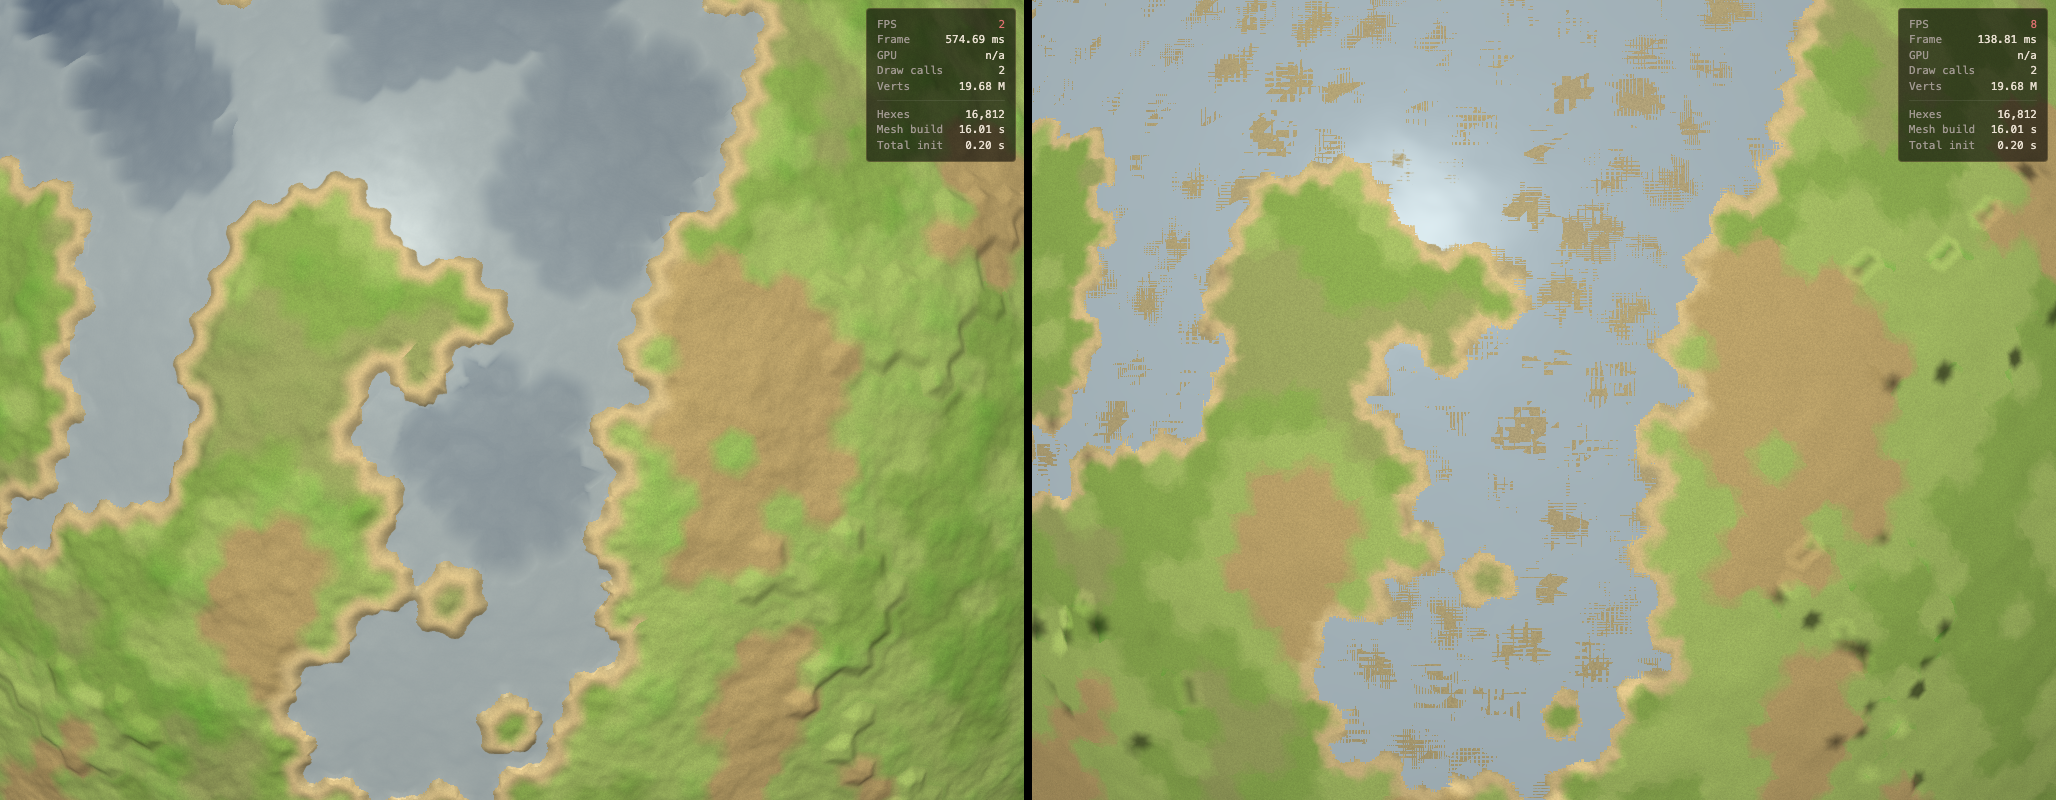
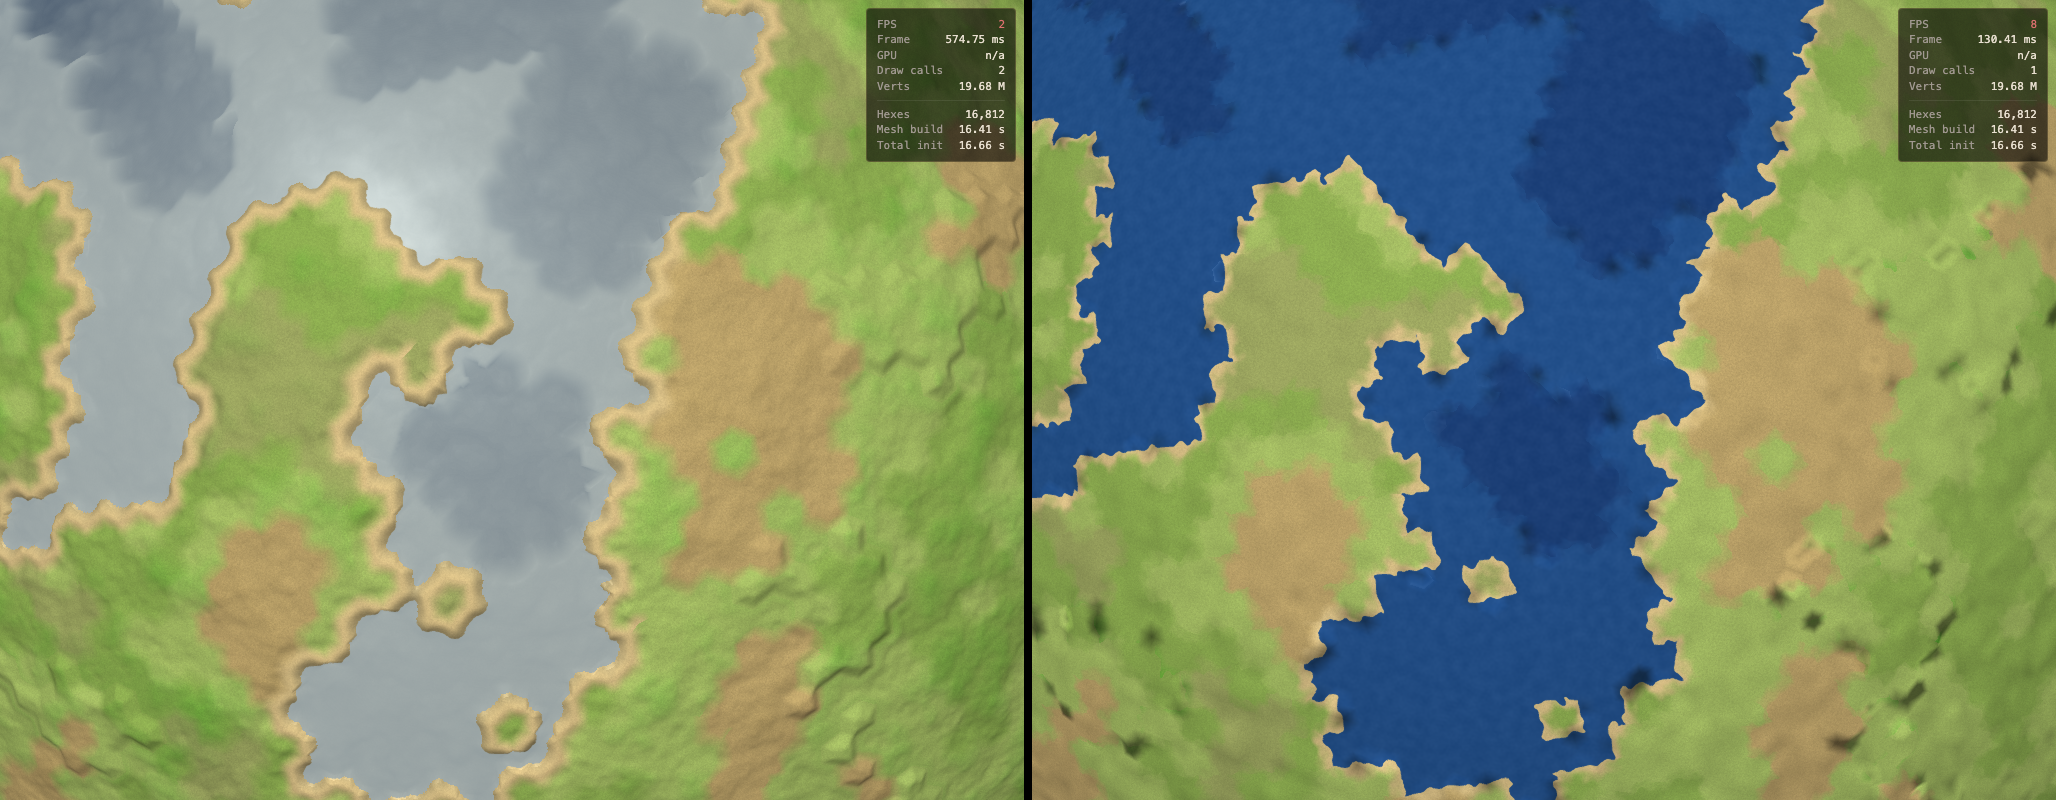
Revert: water sphere reattach + noise tame attempts (8f97940 was last good state)
User feedback: black dots persist, water glitching, coast got worse, hexes
look like squares. The water-sphere reattach (3a68ce6) and the noise-
taming pass (accb3c5) both made things worse rather than better. Reverts
both.

State after revert: smooth per-vertex normals (8f97940), inline water in
shader-globe-material, boundary-noise at amp 0.004 / freq 80,
cliffNoiseAmp 0.010, cliffNoiseFreq 40, interiorNoiseAmp 0.0025,
Strategy 3 transition at 0.15.

Next: re-read user's original 4 issues and try a different approach.
Black dots in particular are NaN propagation through the smooth-normal
finite-difference cross product when 3 sample points classify into
different hex regions (face seam / pentagon boundary).

diff --git a/src/lib/engine/shader-globe-material.ts b/src/lib/engine/shader-globe-material.ts
@@ -366,12 +366,10 @@ vec2 phase5AndPhase6Displacement(vec3 P, float ownLevel) {
     float nbTierH  = tierHeight(nbLevel);
     float trueHeightDelta = abs(nbTierH - ownTierH);
 
-    // Strategy 3: flat hex top + sharp transition near edge. Narrower
-    // ramp band (0.08 vs the plan's 0.15) gives each hex a clearer flat
-    // top -- 92% of the hex is flat, only the outer 8% is the cliff
-    // ramp. Critical for "hexes need to look like hexes" -- otherwise
-    // the ramp eats too much of the hex face.
-    float t = smoothstep(0.0, 0.08, edgeDistNorm);
+    // Strategy 3: flat hex top + sharp transition near edge. The "0.15"
+    // is the plan's edge-band fraction (last 15% of edge distance gets the
+    // ramp).
+    float t = smoothstep(0.0, 0.15, edgeDistNorm);
     float strategyH = mix(nbH, ownH, t);
     float h = strategyH;
 
@@ -396,7 +394,7 @@ vec2 phase5AndPhase6Displacement(vec3 P, float ownLevel) {
     // get nothing, single-tier-step (delta=0.005) gets ~63% activity,
     // double-tier-step (delta=0.010) saturates. Audit-flagged: the prior
     // 0.012 underrepresented single-tier transitions.
-    float cliffness = 1.0 - smoothstep(0.0, 0.08, edgeDistNorm);
+    float cliffness = 1.0 - smoothstep(0.0, 0.15, edgeDistNorm);
     // Use the tier-table delta (not the post-flatten delta) so coastlines
     // (water tier 0/1 -> land tier 2/3/4) trigger cliff noise even though
     // both sides display at h=0.
@@ -408,16 +406,7 @@ vec2 phase5AndPhase6Displacement(vec3 P, float ownLevel) {
         float n =  snoise(nP)         * 0.55
                  + snoise(nP * 2.07)   * 0.30
                  + snoise(nP * 4.13)   * 0.15;
-        // Scale noise amplitude by heightDelta so cliff bumpiness is
-        // proportional to the actual cliff drop. Without this, a 32 km
-        // tier-2-to-tier-3 cliff was getting 64 km of noise -- bigger than
-        // the cliff itself, which read as wild bumps not matching geometry.
-        // Scale factor: heightDelta in units of fraction-of-radius, max
-        // ~0.030 (deepest water to highest mountain). So at max delta,
-        // noise can be at most cliffNoiseAmp * 0.030 / 0.030 = cliffNoiseAmp.
-        // Keeps noise <= ~ heightDelta in magnitude.
-        float deltaScale = clamp(trueHeightDelta / 0.030, 0.0, 1.0);
-        h += cliffActivity * n * cliffNoiseAmp * deltaScale;
+        h += cliffActivity * n * cliffNoiseAmp;
 
         // Stratification: horizontal rock layers banded at *constant
         // altitude*. The audit caught the prior code projecting onto cliff
@@ -434,21 +423,6 @@ vec2 phase5AndPhase6Displacement(vec3 P, float ownLevel) {
             strata *= snoise(P * cliffNoiseFreq * 0.45) * 0.5 + 0.7;
             h += cliffActivity * (strata - 0.5) * cliffStrataAmp;
         }
-    }
-
-    // Hard clamps relative to the water sphere (positioned at -0.0005R,
-    // see globe.ts shaderWaterSphere):
-    //   * Land must NEVER dip below the water sphere -- otherwise water
-    //     bleeds through and looks like scattered ponds on the continent.
-    //   * Water hexes must NEVER rise above the water sphere -- otherwise
-    //     the seafloor breaks through and looks like islands in the
-    //     ocean.
-    // Buffer of 0.0002R (~1.3 km) on each side prevents z-fighting with
-    // the water sphere itself.
-    if (!ownIsWater) {
-        h = max(h, -0.0003);  // land >= -0.0003, water sphere at -0.0005
-    } else {
-        h = min(h, -0.0007);  // water <= -0.0007, water sphere at -0.0005
     }
 
     return vec2(h, edgeDistNorm);
@@ -532,16 +506,10 @@ void main() {
     computeHexLookup(normPos);
     float h = (length(displaced0) - planetRadius) / planetRadius;
 
-    // Smooth normal from cross product of surface tangents. Fallback to
-    // the radial-out direction when the cross-product magnitude is too
-    // small (tangent samples landed on a perfectly flat surface, or
-    // numerical precision collapsed). Without the fallback, normalize
-    // produced NaN/0 -> "black dots" in the rendered terrain.
+    // Smooth normal from cross product of surface tangents.
     vec3 surfT1 = displaced_a - displaced0;
     vec3 surfT2 = displaced_b - displaced0;
-    vec3 N_cross = cross(surfT1, surfT2);
-    float crossMag2 = dot(N_cross, N_cross);
-    vec3 N = (crossMag2 > 1e-10) ? N_cross / sqrt(crossMag2) : normPos;
+    vec3 N = normalize(cross(surfT1, surfT2));
     if (dot(N, normPos) < 0.0) N = -N; // ensure outward orientation
 
     vec4 wp = world * vec4(displaced0, 1.0);
@@ -637,16 +605,19 @@ void main() {
         procColor = vec3(0.0);
     } else {
         // Perturb the hex lookup position with a small noise displacement
-        // so biome boundaries don't follow the perfect 60-degree hex
-        // edges. Amp 0.003 unit-sphere = ~25% of hex apothem -- enough to
-        // visibly bend the boundaries; the water-sphere overlay handles
-        // the visible coastline on its own so we don't need amp larger.
+        // so coast and biome boundaries don't follow the perfect 60-degree
+        // hex edges. The noise amplitude must stay below the hex apothem
+        // in unit-sphere terms (~ 0.5/(res+1) = 0.012 at res=40) so most
+        // fragments still land in their own hex; only fragments within
+        // ~AMP of an edge see the noise potentially flip them to the
+        // neighbor. Result: coastlines, biome borders, and cliff lines
+        // are all wavy rather than hex-aligned.
         vec3 boundaryNoise = vec3(
             snoise(P * 80.0),
             snoise(P * 80.0 + vec3(100.0, 0.0, 0.0)),
             snoise(P * 80.0 + vec3(0.0, 100.0, 0.0))
         );
-        vec3 P_lookup = normalize(P + boundaryNoise * 0.003);
+        vec3 P_lookup = normalize(P + boundaryNoise * 0.004);
 
         computeHexLookup(P_lookup);
         float hexIdF = g_hexId;
@@ -763,11 +734,39 @@ void main() {
 `;
 
 // ── GLSL_WATER_OVERRIDE_LAST ────────────────────────────────
-// Empty in the current build: the water sphere overlay handles water
-// rendering (see globe.ts:shaderWaterSphere). The shader-globe paints
-// the underwater seafloor (sand/gravel via computeTerrainColor on water
-// terrain types) -- the water-sphere covers it.
-const GLSL_WATER_OVERRIDE_LAST = /* glsl */ ``;
+// Injected at the end of the else block (between BEACH_OVERLAY's body
+// and its closing brace) so cliff and beach branches don't overwrite
+// the water hex's surface with rock textures. Sharp coast boundary --
+// water-water cross-blend only, no water-land blend.
+const GLSL_WATER_OVERRIDE_LAST = /* glsl */ `
+        if (selfIsWater) {
+            vec3 viewDir = normalize(cameraPos - vWorldPos);
+            float fresnel = pow(1.0 - max(0.0, dot(N, viewDir)), 2.0);
+            vec3 selfWater;
+            if (terrainId == 0) selfWater = mix(deepColor, shallowColor, fresnel * 0.3 + 0.1);
+            else if (terrainId == 1) selfWater = mix(deepColor, shallowColor, fresnel * 0.3 + 0.4);
+            else if (terrainId == 3) selfWater = mix(deepColor, shallowColor, fresnel * 0.3 + 0.3) + vec3(-0.02, 0.02, 0.03);
+            else selfWater = mix(deepColor, shallowColor, fresnel * 0.3 + 0.2);
+
+            vec3 waterCol = selfWater;
+            bool nbIsWater = (neighborId == 0 || neighborId == 1 || neighborId == 3);
+            if (hasCrossBlend && nbIsWater) {
+                vec3 nbWater;
+                if (neighborId == 0) nbWater = mix(deepColor, shallowColor, fresnel * 0.3 + 0.1);
+                else if (neighborId == 1) nbWater = mix(deepColor, shallowColor, fresnel * 0.3 + 0.4);
+                else nbWater = mix(deepColor, shallowColor, fresnel * 0.3 + 0.3) + vec3(-0.02, 0.02, 0.03);
+                float n1 = snoise(vWorldPos * 0.004) * 0.22;
+                float n2 = snoise(vWorldPos * 0.012) * 0.10;
+                float threshold = max(0.35 + n1 + n2, 0.08);
+                float blend = (1.0 - smoothstep(0.0, threshold, distToBorder)) * 0.45;
+                waterCol = mix(selfWater, nbWater, blend);
+            }
+            float wave = snoise(vWorldPos * 0.012 + vec3(time * 0.3, 0.0, 0.0)) * 0.012
+                       + snoise(vWorldPos * 0.04  + vec3(0.0, time * 0.2, 0.0)) * 0.006;
+            waterCol += vec3(wave);
+            procColor = waterCol;
+        }
+`;
 
 // Strip the trailing `}` (closes the else) from GLSL_BEACH_OVERLAY so we
 // can inject the water override before that close. The legacy chunk's
@@ -798,22 +797,23 @@ const FRAGMENT =
 // 1 / cliffStrataFreq fraction of planetRadius. freq=300 gives bands
 // every ~21 km, so ~5-10 visible bands across a tier transition.
 const PHASE6_DEFAULTS = {
-	// Cliff noise: amp scaled by heightDelta inside the shader so the
-	// effective amplitude is at most ~ heightDelta. Base amp 0.003R
-	// gives ~19 km peak noise at the largest cliffs (full water-to-
-	// mountain delta), proportionally less for smaller cliffs. Freq 40
-	// gives period ~25 km so noise varies within the 8% cliff band.
-	cliffNoiseAmp: 0.003,
+	// Cliff noise frequency must be HIGH enough that the noise varies
+	// meaningfully within the 12 km cliff transition band (15% of hex
+	// apothem). At freq=6 the noise period was 169 km -- the whole cliff
+	// band shifted uniformly per region, so coastlines stayed hex-aligned.
+	// Freq=40 -> period ~25 km, half a cycle across the cliff band ->
+	// visible per-hex boundary wiggle. Amp bumped 0.005 -> 0.010 so the
+	// coastline-shift effect (horizontal shift = vert noise / cliff slope)
+	// is visible at planet-scale views.
+	cliffNoiseAmp: 0.010,
 	cliffNoiseFreq: 40.0,
-	// Stratification subtle by default; user can dial up via the API.
-	cliffStrataAmp: 0.0006,
+	cliffStrataAmp: 0.0008,
 	cliffStrataFreq: 300.0,
-	// Interior noise: gentle and low-frequency for smooth rolling hills.
-	// Lower freq (12 vs 35 in legacy) gives bigger valleys / hills rather
-	// than fine-grained roughness; lower amp (0.0015) keeps the surface
-	// readable as continuous terrain rather than choppy.
-	interiorNoiseAmp: 0.0015,
-	interiorNoiseFreq: 12.0,
+	// Interior noise stays gentle so dFdx/dFdy normals don't see every
+	// per-triangle slope as a cliff. 0.0025R / freq 20 keeps the surface
+	// readable as bumpy plains without lighting up the slab-rock branch.
+	interiorNoiseAmp: 0.0025,
+	interiorNoiseFreq: 20.0,
 };
 
 export interface ShaderGlobeMaterialOptions {

diff --git a/src/lib/engine/globe.ts b/src/lib/engine/globe.ts
@@ -270,23 +270,6 @@ export async function createGlobeEngine(
 		debugMat.forceCompilation(shaderGlobe.mesh, done);
 	});
 
-	// ── Shader-preview water sphere ─────────────────────────
-	// Separate from the legacy water sphere -- this one runs without the
-	// depth-sampler discard (Babylon's depth renderer can't capture our
-	// displaced shader-globe). Relies on natural WebGL depth-test:
-	//   land tier 2/3/4 at radius >= planetRadius   --> closer to camera --> wins
-	//   water hexes at planetRadius * 0.999          --> farther --> loses to water sphere
-	// Result: water sphere shows over water hexes, hidden by land hexes.
-	const shaderWaterSphere = MeshBuilder.CreateSphere('shaderWaterSurface', {
-		diameter: EARTH_RADIUS_KM * 2 * 0.9995,
-		segments: 64,
-	}, scene);
-	const shaderWaterMat = createWaterMaterial(scene, depthTexture, { opaque: true });
-	shaderWaterMat.setFloat('useDepthSamplerDiscard', 0.0);
-	shaderWaterSphere.material = shaderWaterMat;
-	shaderWaterSphere.isPickable = false;
-	shaderWaterSphere.setEnabled(false);
-
 	report(`Globe ready: ${cells.length} cells, ${shaderGlobe.vertexCount.toLocaleString()} shader-globe verts (legacy mesh deferred)`);
 
 	// ── Picking / Painting ──────────────────────────────────
@@ -357,35 +340,35 @@ export async function createGlobeEngine(
 	function applyRenderMode(mode: RenderMode) {
 		renderMode = mode;
 		if (mode === 'legacy') {
-			// Lazy build on first switch into legacy mode.
+			// Lazy build on first switch into legacy mode. ~17 s wait the
+			// first time; cached on subsequent switches.
 			ensureLegacyBuilt();
 			if (!legacy) return;
 			legacy.mesh.setEnabled(true);
 			legacy.waterSphere.setEnabled(true);
 			shaderGlobe.mesh.setEnabled(false);
-			shaderWaterSphere.setEnabled(false);
 			depthTexture.renderList = [legacy.mesh];
 			camera.attachPostProcess(fxaa);
 		} else if (mode === 'shader-debug') {
-			// shader-debug renders raw bit-encoded IDs in mode 3; FXAA + water
-			// sphere would mask the bytes the verifier needs to read.
+			// shader-debug renders raw bit-encoded IDs in mode 3; FXAA would
+			// average those bytes and corrupt the verifier output. Water
+			// sphere off so the bit-encoded debug colors aren't masked.
 			if (legacy) { legacy.mesh.setEnabled(false); legacy.waterSphere.setEnabled(false); }
 			shaderGlobe.mesh.setEnabled(true);
 			shaderGlobe.mesh.material = debugMat;
-			shaderWaterSphere.setEnabled(false);
 			depthTexture.renderList = [];
 			camera.detachPostProcess(fxaa);
 		} else {
-			// shader-preview: real biome rendering with Phase 5/6 displacement
-			// PLUS the water sphere on top (uses natural WebGL depth test --
-			// shader-globe land hexes at radius >= planetRadius are closer to
-			// the camera than the water sphere at 0.9995R, so they win the
-			// depth test naturally; water hexes at 0.999R are farther, water
-			// sphere wins. No custom depth material needed.
+			// shader-preview: real biome rendering with Phase 5/6 displacement.
+			// Water sphere stays OFF: Babylon's depth renderer uses a
+			// default vertex shader that doesn't apply our displacement,
+			// so water-sphere depth-occlusion would see the un-displaced
+			// sphere and discard everywhere. A displacement-aware custom
+			// depth material is Phase 8 work; for now water is rendered
+			// inline by shader-globe-material with a sharp coast boundary.
 			if (legacy) { legacy.mesh.setEnabled(false); legacy.waterSphere.setEnabled(false); }
 			shaderGlobe.mesh.setEnabled(true);
 			shaderGlobe.mesh.material = shaderGlobeMat;
-			shaderWaterSphere.setEnabled(true);
 			depthTexture.renderList = [];
 			camera.attachPostProcess(fxaa);
 		}
@@ -428,13 +411,6 @@ export async function createGlobeEngine(
 			legacy.waterMat.setFloat('cameraNear', camera.minZ);
 			legacy.waterMat.setFloat('cameraFar', camera.maxZ);
 		}
-
-		// Shader-preview water sphere: same uniforms as legacy water-mat.
-		shaderWaterMat.setFloat('time', waterTime);
-		shaderWaterMat.setVector3('cameraPos', camPos);
-		shaderWaterMat.setVector3('sunDir', sunDirVec);
-		shaderWaterMat.setFloat('cameraNear', camera.minZ);
-		shaderWaterMat.setFloat('cameraFar', camera.maxZ);
 		// Phase 4 biome-shaded material: same per-frame uniforms as the
 		// legacy terrain material so legacy and shader-preview produce
 		// matching colors at every camera state.

diff --git a/src/lib/engine/water-material.ts b/src/lib/engine/water-material.ts
@@ -92,12 +92,6 @@ uniform vec3 shallowColor;
 uniform float cameraNear;
 uniform float cameraFar;
 uniform sampler2D depthSampler;
-// When 1.0, the depth-sampler-based discard runs (legacy mode -- where
-// the depth renderer captures the legacy hex-prism mesh). When 0.0, skip
-// it; rely on natural WebGL depth-test instead. Used by shader-preview
-// where Babylon's depth renderer can't capture the displaced shader-globe
-// (its vertex shader doesn't run displacement).
-uniform float useDepthSamplerDiscard;
 
 varying vec3 vWorldPos;
 varying vec3 vWorldNormal;
@@ -135,20 +129,14 @@ void main() {
     vec2 screenUV = (vScreenPos.xy / vScreenPos.w) * 0.5 + 0.5;
     float sceneDepth = texture2D(depthSampler, screenUV).r;
 
-    if (useDepthSamplerDiscard > 0.5) {
-        if (sceneDepth < vLinearDepth + 0.00015) {
-            discard;
-        }
+    if (sceneDepth < vLinearDepth + 0.00015) {
+        discard;
     }
 
     vec3 N = normalize(vWorldNormal);
     vec3 V = normalize(cameraPos - vWorldPos);
 
-    // depthDiff drives foam at coastal edges. With useDepthSamplerDiscard
-    // off, we don't have meaningful sceneDepth, so skip foam (foamEdge=0
-    // below). Phase 8 work could re-add foam via a custom displacement-
-    // aware depth pass.
-    float depthDiff = (useDepthSamplerDiscard > 0.5) ? max(sceneDepth - vLinearDepth, 0.0) : 0.0;
+    float depthDiff = max(sceneDepth - vLinearDepth, 0.0);
 
     // Fresnel
     float fresnel = 1.0 - max(dot(N, V), 0.0);
@@ -198,22 +186,13 @@ void main() {
     float spec2 = pow(max(dot(waveN, halfVec), 0.0), 32.0);
     waterCol += vec3(0.6, 0.75, 0.9) * spec2 * 0.03;
 
-    // Alpha: legacy mode uses 0.85 + fresnel * 0.15 so the underwater
-    // sandy seafloor blends through (the legacy mesh renders the
-    // seafloor first; alpha lets it tint water). In shader-preview we
-    // disable the depth-sampler discard, and the seafloor underneath is
-    // also rendered by shader-globe-material's terrain palette -- but
-    // there it's a visible sand color, so any transparency reads as
-    // blotchy "patches" through the water. Force opaque (alpha=1) when
-    // useDepthSamplerDiscard is off.
-    float alpha = (useDepthSamplerDiscard > 0.5) ? (0.85 + fresnel * 0.15) : 1.0;
+    float alpha = 0.85 + fresnel * 0.15;
 
     gl_FragColor = vec4(waterCol, alpha);
 }
 `;
 
-export function createWaterMaterial(scene: Scene, depthTexture: BaseTexture, opts?: { opaque?: boolean }): ShaderMaterial {
-	const opaque = opts?.opaque ?? false;
+export function createWaterMaterial(scene: Scene, depthTexture: BaseTexture): ShaderMaterial {
 	ShaderStore.ShadersStore['waterSurfaceVertexShader'] = VERTEX;
 	ShaderStore.ShadersStore['waterSurfaceFragmentShader'] = FRAGMENT;
 
@@ -227,14 +206,10 @@ export function createWaterMaterial(scene: Scene, depthTexture: BaseTexture, opt
 			'sunDir', 'cameraPos', 'time',
 			'deepColor', 'shallowColor',
 			'cameraNear', 'cameraFar',
-			'waveAmp', 'waveFreq',
-			'useDepthSamplerDiscard',
+			'waveAmp', 'waveFreq'
 		],
 		samplers: ['depthSampler'],
-		// In opaque mode (shader-preview), disable alpha blending so the
-		// material participates in normal depth-write and the seafloor
-		// underneath isn't visible through the water surface.
-		needAlphaBlending: !opaque,
+		needAlphaBlending: true,
 	});
 
 	mat.setVector3('sunDir', new Vector3(1, -0.5, -0.3).normalize());
@@ -252,10 +227,6 @@ export function createWaterMaterial(scene: Scene, depthTexture: BaseTexture, opt
 	// Camera
 	mat.setFloat('cameraNear', 1);
 	mat.setFloat('cameraFar', 1);
-
-	// Default to legacy behavior (use depth-sampler discard). globe.ts
-	// flips this to 0 when shader-preview is active.
-	mat.setFloat('useDepthSamplerDiscard', 1.0);
 
 	// Depth texture from scene depth renderer
 	mat.setTexture('depthSampler', depthTexture);
